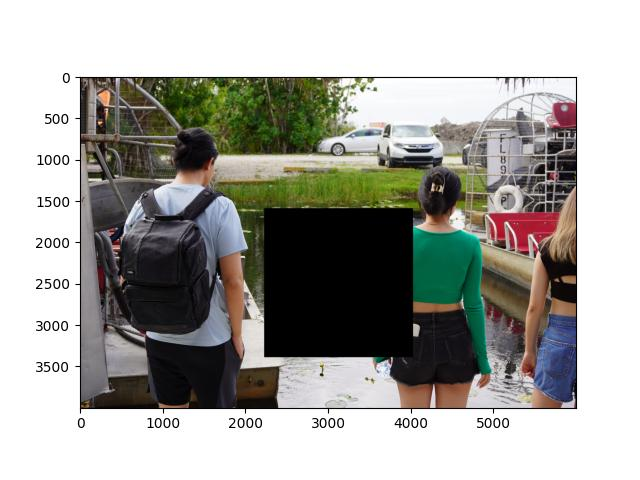
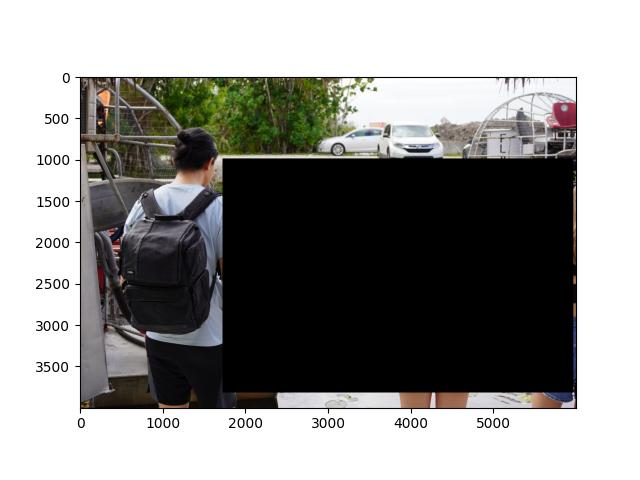
fixed mask ratio implementation

Changed region(s): [[0.3438, 0.3125, 0.9062, 0.8438]]

diff --git a/semilearn/datasets/augmentation/maskaugment.py b/semilearn/datasets/augmentation/maskaugment.py
@@ -3,21 +3,21 @@ import PIL
 from PIL import Image
 import PIL, PIL.ImageOps, PIL.ImageEnhance, PIL.ImageDraw
 import numpy as np
+import math
 
 def Cutout(img, ratio, color, position):
     if ratio < 0:
         return img
 
     w, h = img.size
-    size = ratio * img.size[0]
+    mask_w = ratio * w
+    mask_h = ratio * h
 
-    x0 = np.random.uniform(w)
-    y0 = np.random.uniform(h)
+    x0 = np.random.uniform(0, w - mask_w)
+    y0 = np.random.uniform(0, h - mask_h)
 
-    x0 = int(max(0, x0 - size / 2.))
-    y0 = int(max(0, y0 - size / 2.))
-    x1 = min(w, x0 + size)
-    y1 = min(h, y0 + size) 
+    x1 = min(w, x0 + mask_w)
+    y1 = min(h, y0 + mask_h) 
 
     xy = (x0, y0, x1, y1)
     img = img.copy()
@@ -31,7 +31,7 @@ class MaskAugment:
     mask_position: str, defaults to and only supports 'random'
     """
     def __init__(self, mask_ratio='random', mask_color=(0, 0, 0), mask_position='random'):
-        self.mask_ratio = mask_ratio
+        self.mask_ratio = math.sqrt(mask_ratio)
         self.mask_color = tuple([int(c) for c in mask_color])
         self.mask_position = mask_position
         
@@ -49,7 +49,7 @@ if __name__ == '__main__':
 
     os.environ['KMP_DUPLICATE_LIB_OK'] = 'True'
     img = Image.open('./u.jpg')
-    randaug = MaskAugment(0.3)
+    randaug = MaskAugment(0.5)
     img = randaug(img)
     import matplotlib
     from matplotlib import pyplot as plt 
